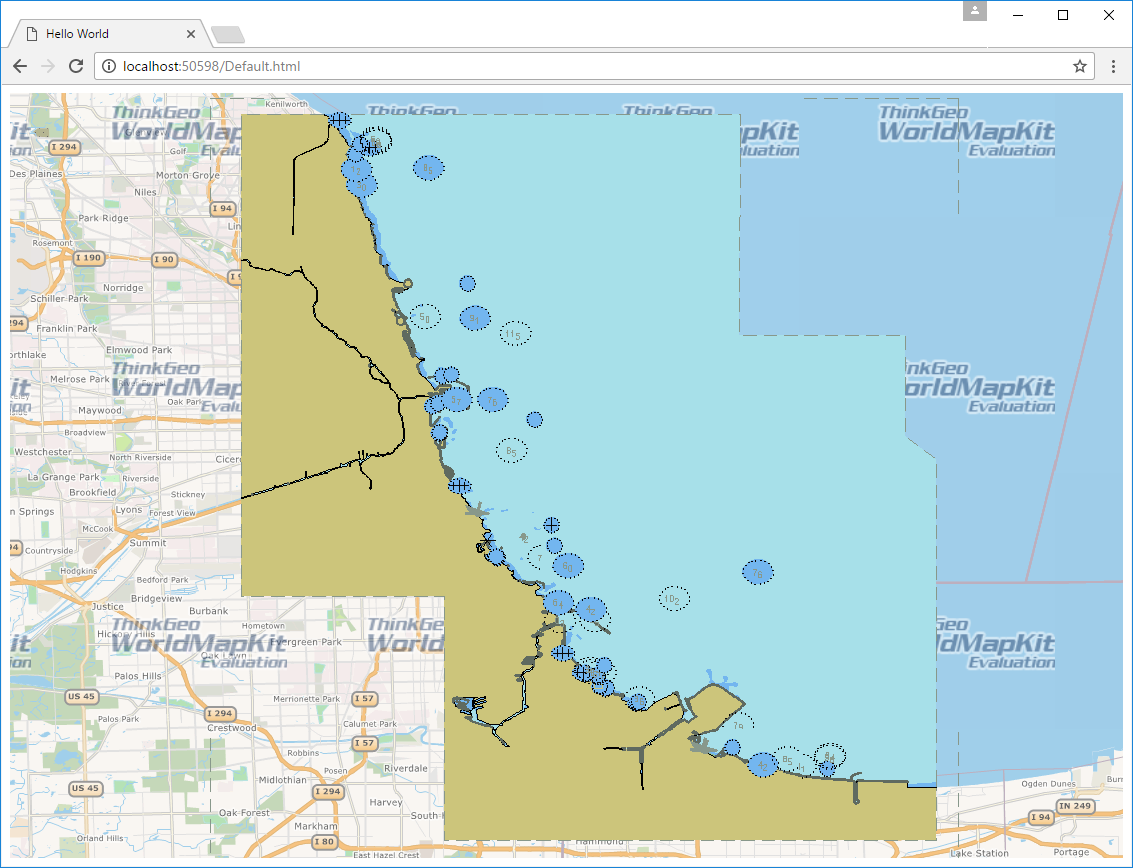
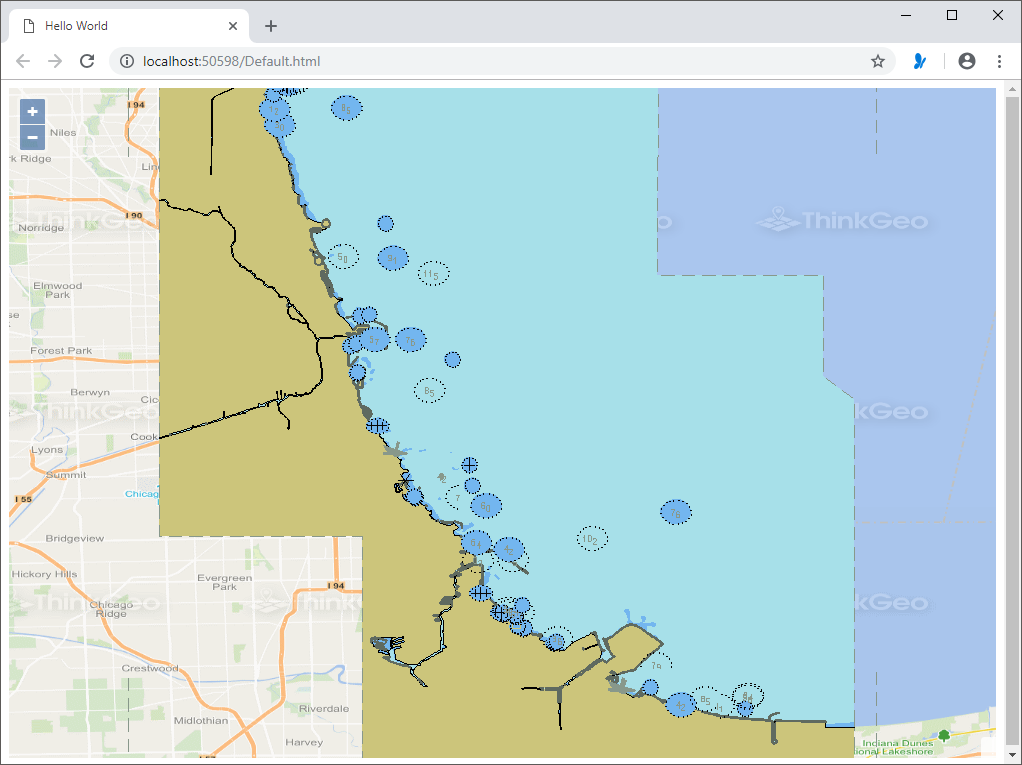
Update sample to MapSuite10.4

diff --git a/DisplayNauticalChart/Default.html b/DisplayNauticalChart/Default.html
@@ -2,60 +2,58 @@
 <html style="height:100%">
 <head>
     <title>Hello World</title>
-    <link rel="stylesheet" href="http://cdn.leafletjs.com/leaflet-0.7.3/leaflet.css" />
+    <link rel="stylesheet" href="https://cdnjs.cloudflare.com/ajax/libs/ol3/4.6.5/ol.css" />
 
 </head>
 <body style="height: 98%">
     <div id="map" style="height: 100%; width: 100%"></div>
+
+    <script src="https://cdnjs.cloudflare.com/ajax/libs/ol3/4.6.5/ol.js"></script>
+    <script>
+        var projection4326 = ol.proj.get('EPSG:4326');
+        var map = new ol.Map({
+            target: 'map',
+            controls: ol.control.defaults({ attribution: false, rotate: false }).extend(
+                [new ol.control.Attribution({ collapsible: false })]),
+            view: new ol.View({ center: [-87.51036995, 41.8291724], zoom: 11, projection: projection4326 })
+        });
+
+        getRootPath = function () {
+            var pathArray = location.pathname.split('/');
+            var appPath = "/";
+            for (var i = 1; i < pathArray.length - 1; i++) {
+                appPath += pathArray[i] + "/";
+            }
+
+            return appPath === "/" ? "" : appPath;
+        };
+
+        var thinkgeoCloudMapsLayer = new ol.layer.Tile({
+            source: new ol.source.XYZ({
+                url: 'https://gisserver{1-6}.thinkgeo.com/api/v1/maps/raster/light/x1/3857/512/{z}/{x}/{y}.png',
+                maxZoom: 19,
+                tileSize: 512,
+                params:
+                {
+                    'LAYERS': 'ThinkGeoCloudMaps',
+                    'VERSION': '10.4.0',
+                    'STYLE': 'Light'
+                }
+            })
+        });
+        map.addLayer(thinkgeoCloudMapsLayer);
+
+        var layerDecimalDegreeSource = new ol.source.XYZ({
+            projection: projection4326,
+            url: getRootPath() + '/DisplayNauticalChart/tile/{z}/{x}/{y}',
+            maxZoom: 19,
+            tileLoadFunction: function (imageTile, src) { imageTile.getImage().src = src + '?t=' + new Date().getTime(); }
+        });
+
+        var countriesLayer = new ol.layer.Tile({ source: layerDecimalDegreeSource });
+
+        map.addLayer(countriesLayer);
+    </script>
 </body>
-<!--<script src="http://cdn.leafletjs.com/leaflet-0.7.3/leaflet.js"></script>-->
-<script src="https://openlayers.org/en/v4.3.3/build/ol.js"></script>
-<script>
-    var projection4326 = ol.proj.get('EPSG:4326');
-    var map = new ol.Map({
-        target: 'map',
-        controls: ol.control.defaults({ attribution: false, rotate: false }).extend(
-            [new ol.control.Attribution({ collapsible: false })]),
-        view: new ol.View({ center: [-87.51036995, 41.8291724], zoom: 11, projection: projection4326 })
-    });
-
-    getRootPath = function () {
-        var pathArray = location.pathname.split('/');
-        var appPath = "/";
-        for (var i = 1; i < pathArray.length - 1; i++) {
-            appPath += pathArray[i] + "/";
-        }
-
-        return appPath === "/" ? "" : appPath;
-    };
-
-    var urls = ['http://worldmapkit1.thinkgeo.com/CachedWMSServer/WmsServer.axd',
-        'http://worldmapkit2.thinkgeo.com/CachedWMSServer/WmsServer.axd',
-        'http://worldmapkit3.thinkgeo.com/CachedWMSServer/WmsServer.axd',
-        'http://worldmapkit4.thinkgeo.com/CachedWMSServer/WmsServer.axd',
-        'http://worldmapkit5.thinkgeo.com/CachedWMSServer/WmsServer.axd',
-        'http://worldmapkit6.thinkgeo.com/CachedWMSServer/WmsServer.axd'];
-    var params = {
-        'LAYERS': 'OSMWorldMapKitLayer',
-        'VERSION': '1.1.1',
-        'STYLE': 'WorldMapKitDefaultStyle'
-    };
-
-    var osmLayerDecimalDegreeSource = new ol.source.TileWMS(({ urls: urls, params: params, projection: projection4326 }));
-    var osmWorldMapKitLayer = new ol.layer.Tile({ source: osmLayerDecimalDegreeSource });
-
-    map.addLayer(osmWorldMapKitLayer);
-
-    var layerDecimalDegreeSource = new ol.source.XYZ({
-        projection: projection4326,
-        url: getRootPath() + '/DisplayNauticalChart/tile/{z}/{x}/{y}',
-        maxZoom: 19,
-        tileLoadFunction: function (imageTile, src) { imageTile.getImage().src = src + '?t=' + new Date().getTime(); }
-    });
-
-    var countriesLayer = new ol.layer.Tile({ source: layerDecimalDegreeSource });
-
-    map.addLayer(countriesLayer);
-</script>
 
 </html>
